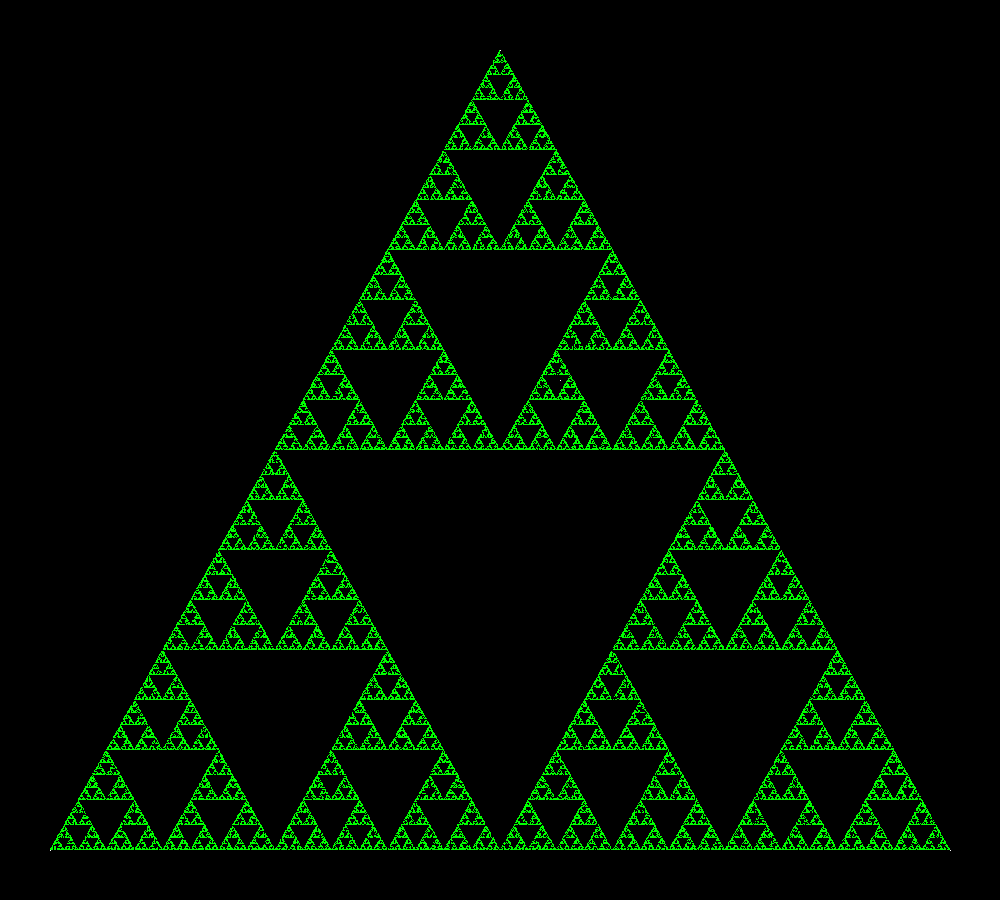
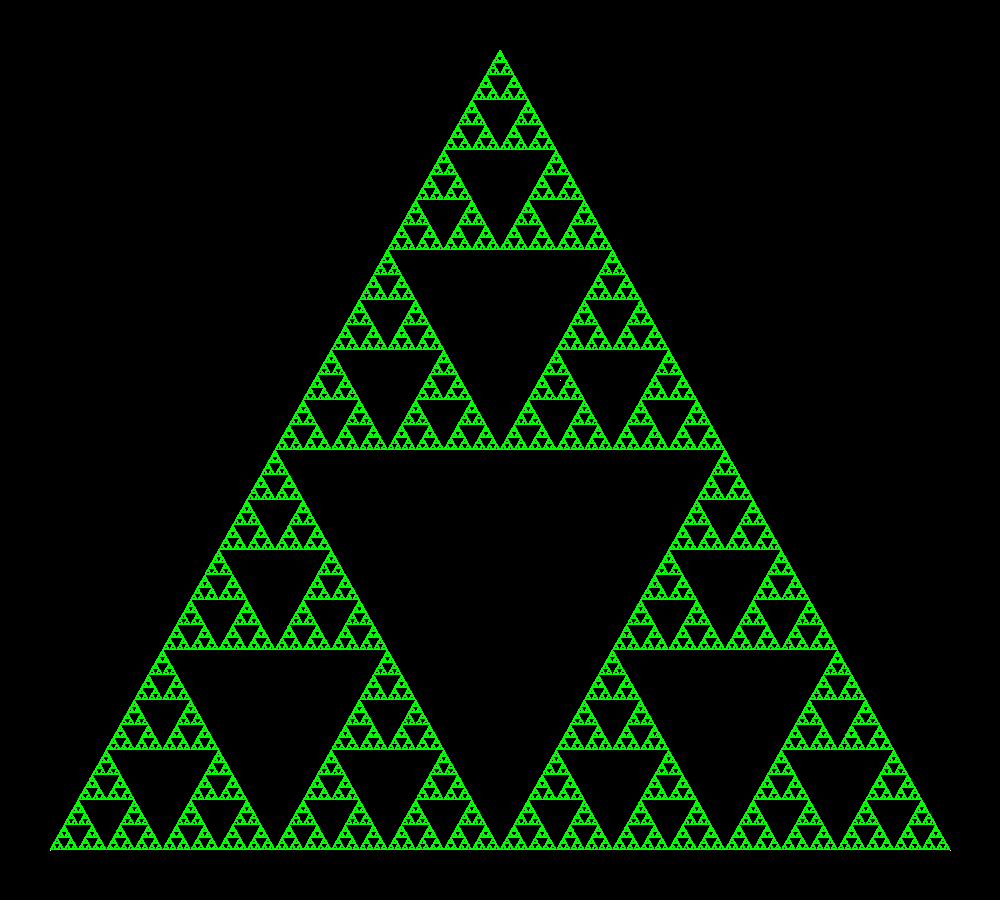
Messing around with markdown

diff --git a/main.py b/main.py
@@ -21,7 +21,7 @@ background_color = c.colors_dict['black']
 start_pt = (560, 380)
 start_pt_color = c.colors_dict['white']
 color = 'lime'
-total_pt = 100000
+total_pt = 1000000
 
 # instantiation of the new image and setting it up
 image = img.new(mode="RGB", size=(width, height), color=background_color)
